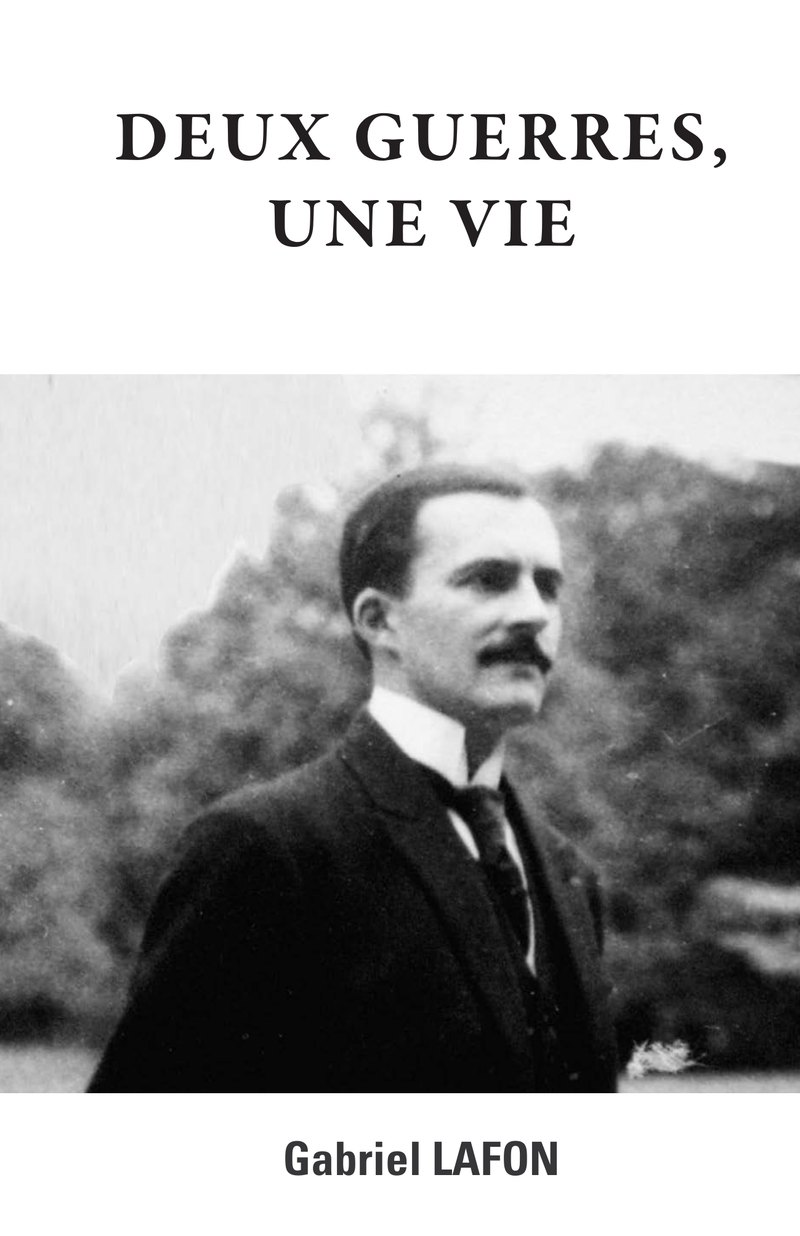
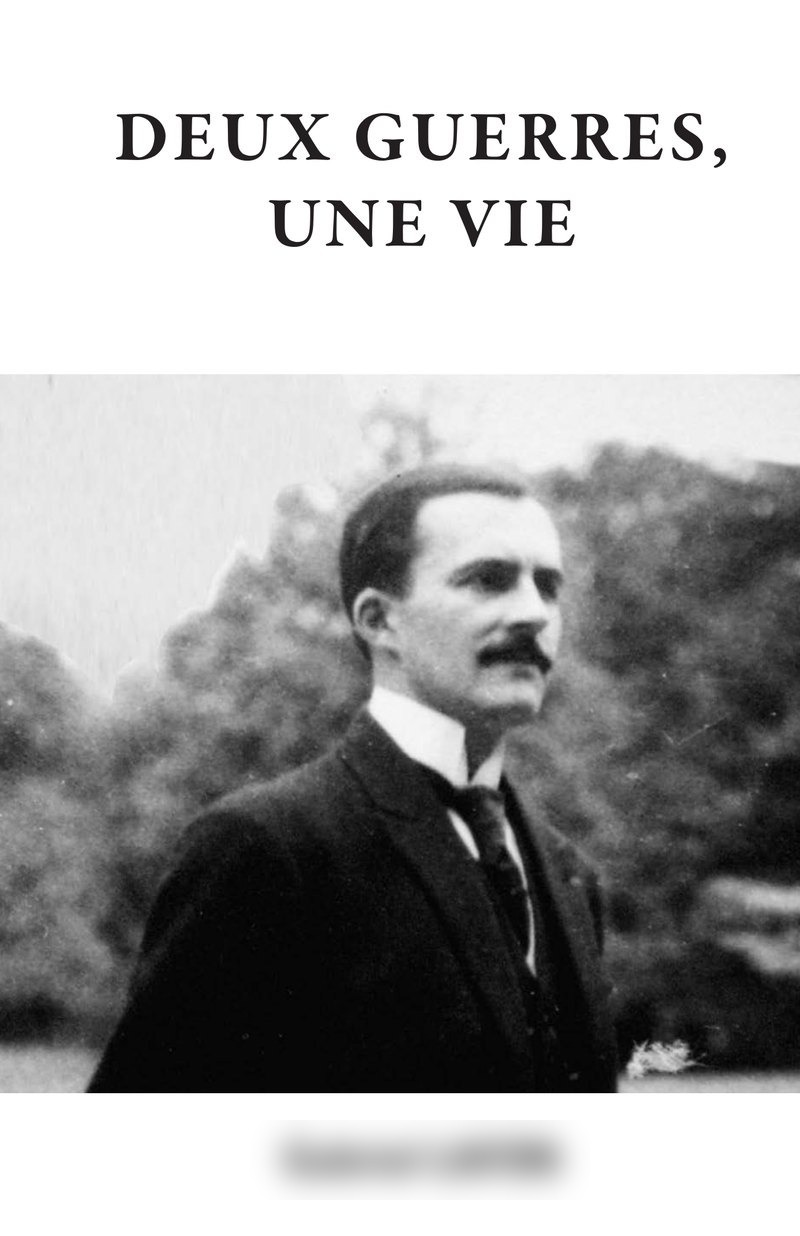
Présentation orale Lana Del Rey dans un écran, nom de l'auteur flouté sur le livre
Claude-Session: https://claude.ai/code/session_018X2zgSBeC13aP9s9oxghUy

Changed region(s): [[0.3438, 0.8916, 0.7188, 0.9838]]

diff --git a/src/data/projets.ts b/src/data/projets.ts
@@ -31,6 +31,8 @@ export type Projet = {
   contexte: string;
   maPart: string;
   visuels: Visuel[];
+  /** Diaporama présenté en fin de page, dans un écran (fichiers 01.webp… et 01-m.webp… en vignettes) */
+  presentation?: { titre: string; dossier: string; nombre: number };
 };
 
 const v = (slug: string, fichier: string, alt: string, format?: Visuel['format']): Visuel => ({
@@ -112,7 +114,7 @@ export const projets: Projet[] = [
     outils: 'InDesign, Photoshop',
     cadre: 'Projet personnel',
     contexte:
-      "Deux guerres, une vie est l'autobiographie de Gabriel Lafon, mon arrière-grand-père, qui traverse les deux conflits mondiaux. Un format broché de 110 × 170 mm, 378 pages de texte et d'archives.",
+      "Deux guerres, une vie est l'autobiographie de mon arrière-grand-père, qui traverse les deux conflits mondiaux. Un format broché de 110 × 170 mm, 378 pages de texte et d'archives.",
     maPart:
       "J'ai repris son manuscrit, réécrit le texte et composé le livre : couverture, gabarit intérieur, intégration des photographies d'archives et des cartes.",
     visuels: [
@@ -252,6 +254,7 @@ export const projets: Projet[] = [
       v('lana-del-rey', '05', 'Page À propos du site', 'moitie'),
       v('lana-del-rey', '06', 'Page boutique', 'moitie'),
     ],
+    presentation: { titre: 'La présentation orale du projet', dossier: '/projets/lana-del-rey/presentation', nombre: 44 },
   },
   {
     slug: 'paris-2024',
